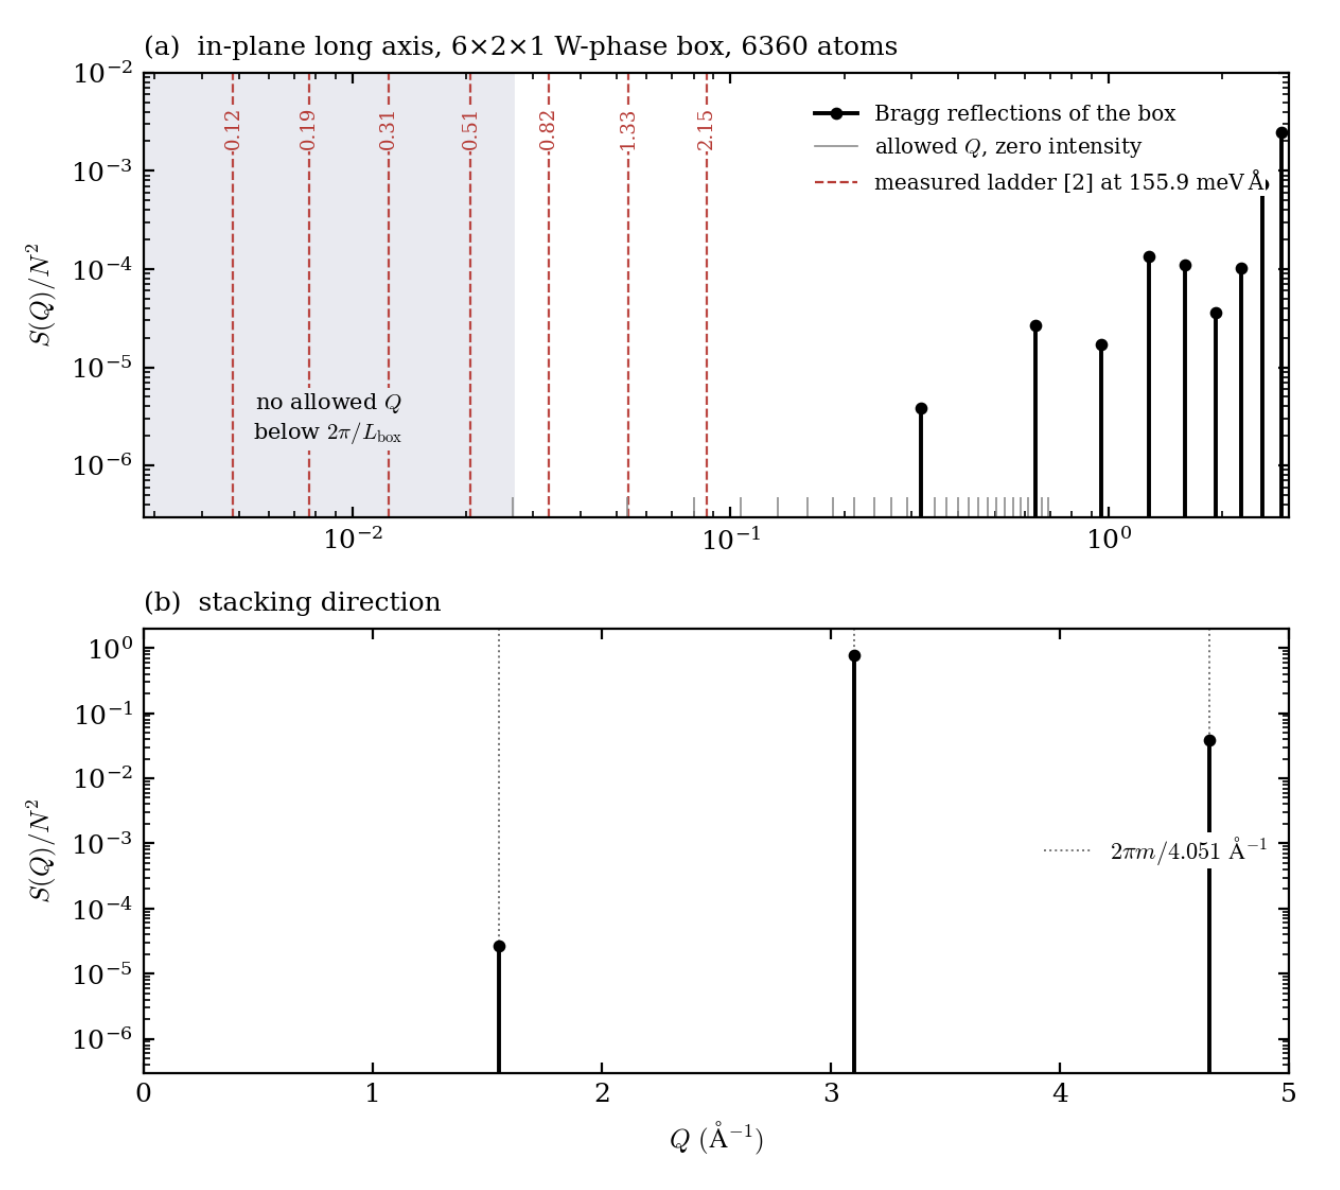
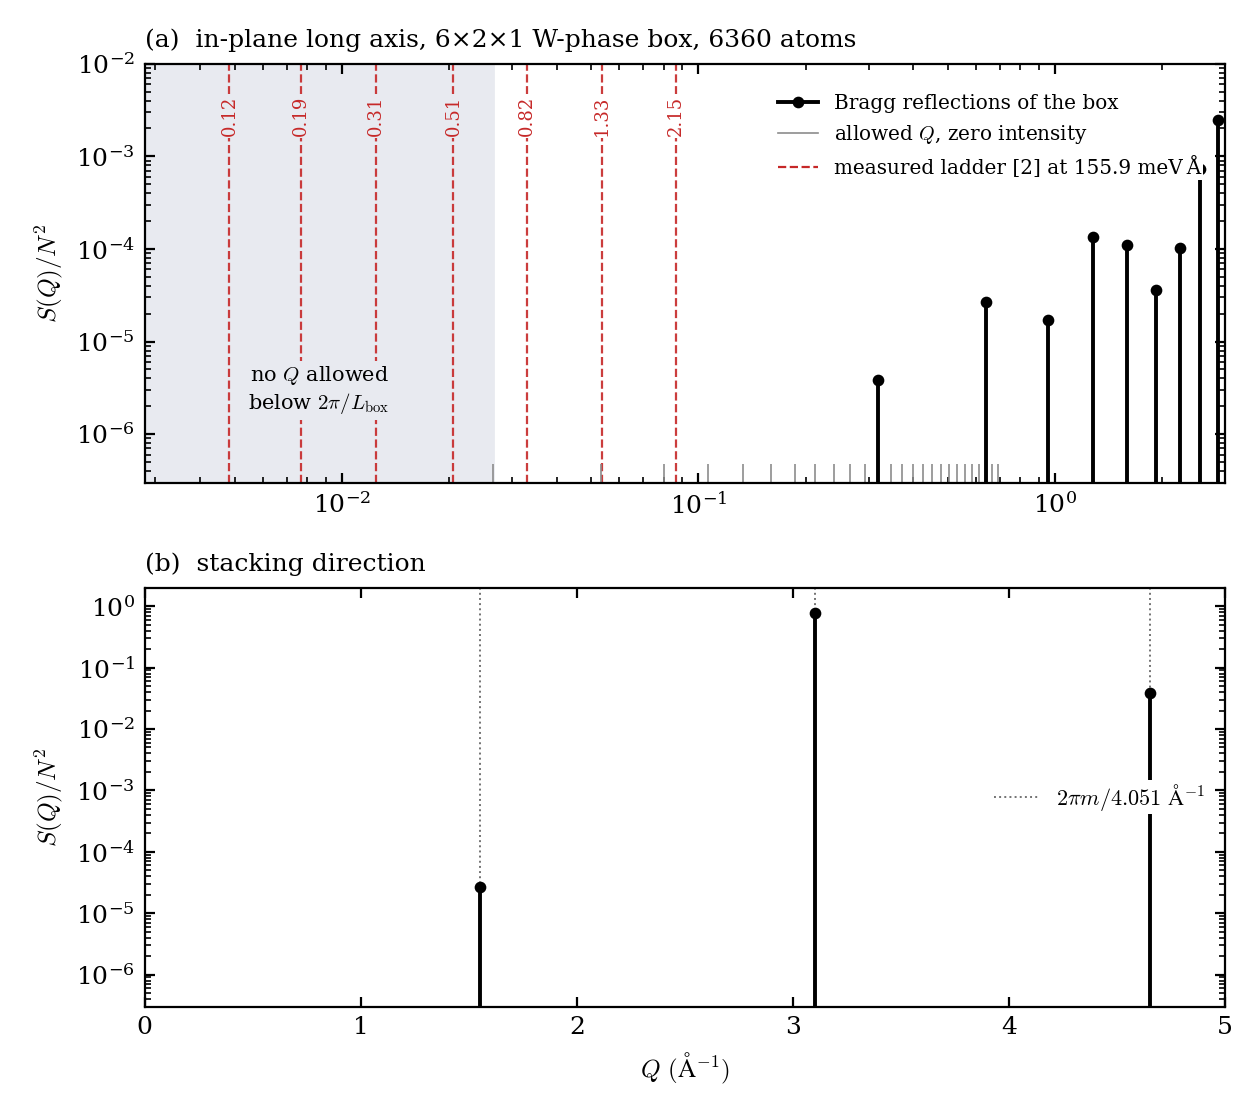
Add files via upload

diff --git a/make_fig_workflow.py b/make_fig_workflow.py
@@ -11,9 +11,9 @@ from matplotlib.patches import FancyArrowPatch, Polygon, Rectangle
 plt.rcParams.update({"font.family": "serif", "mathtext.fontset": "cm",
                      "font.size": 9})
 
-fig, ax = plt.subplots(figsize=(8.3, 11.0))
+fig, ax = plt.subplots(figsize=(8.3, 9.6))
 ax.set_xlim(0, 100)
-ax.set_ylim(0, 132)
+ax.set_ylim(17, 132)
 ax.axis("off")
 FS = 9
 FSI = 8.5
@@ -97,15 +97,17 @@ dline((67.5, 59.5), (60.6, 59.5))
 dline((60.6, 59.5), (60.6, 83.5))
 arr((60.6, 83.5), (56.5, 83.5), dashed=True)
 
-ax.plot([12, 20], [13, 13], "k-", lw=0.9)
-ax.text(21.5, 13, "process flow", va="center", fontsize=FS)
-ax.plot([42, 50], [13, 13], "k", lw=0.9, linestyle=(0, (4, 3)))
-ax.text(51.5, 13, "prediction or caveat carried forward", va="center",
+# legend, in the white space of the right-hand column
+ax.plot([62, 69], [44, 44], "k-", lw=0.9)
+ax.text(70.5, 44, "process flow", va="center", fontsize=FS)
+ax.plot([62, 69], [38, 38], "k", lw=0.9, linestyle=(0, (4, 3)))
+ax.text(70.5, 38, "prediction or caveat\ncarried forward", va="center",
         fontsize=FS)
-pts = [(13, 6.3), (19, 6.3), (20.5, 8), (19, 9.7), (13, 9.7), (11.5, 8)]
+pts = [(62.5, 28.6), (68, 28.6), (69.4, 30.2), (68, 31.8), (62.5, 31.8),
+       (61.1, 30.2)]
 ax.add_patch(Polygon(pts, fill=False, lw=1.0))
-ax.text(16, 8, "gate", ha="center", va="center", fontsize=FS)
-ax.text(23, 8, "verification point at which failure halts the calculation",
+ax.text(65.25, 30.2, "gate", ha="center", va="center", fontsize=FS)
+ax.text(70.5, 30.2, "verification point at which\nfailure halts the calculation",
         va="center", fontsize=FS)
 
 fig.savefig("fig2_workflow_fullpage.png", dpi=200, bbox_inches="tight")

diff --git a/make_fig_sq.py b/make_fig_sq.py
@@ -81,7 +81,7 @@ ax1.set_ylabel(r"$S(Q)/N^{2}$")
 ax1.set_title("(a)  in-plane long axis, 6\u00d72\u00d71 W-phase box, 6360 atoms",
               loc="left", fontsize=9)
 ax1.text(np.sqrt(xlo * q1), 3e-6,
-         "no allowed $Q$\nbelow $2\\pi/L_{\\mathrm{box}}$",
+         "no $Q$ allowed\nbelow $2\\pi/L_{\\mathrm{box}}$",
          ha="center", va="center", fontsize=7.5,
          bbox=dict(facecolor=SHADE, edgecolor="none", pad=1.5))
 ax1.plot([], [], "ko-", ms=3.2, lw=1.4, label="Bragg reflections of the box")

diff --git a/make_figs_colour.py b/make_figs_colour.py
@@ -39,7 +39,7 @@ def norm(f, g):
 
 # ---------------- Figure 5: the two routes and the element decomposition ----
 fmd, smd = np.load("md_2x2x2_s11_vdos_total.npy"); smd = norm(fmd, smd)
-dh = np.load("ph_x26_check_dos.npz")
+dh = np.load("ph_x26_dos.npz")
 eh, th = dh["energy"], norm(dh["energy"], dh["total"])
 P = np.load("md_2x2x2_s11_vdos_partial.npz"); fp = P["freq_meV"]
 
